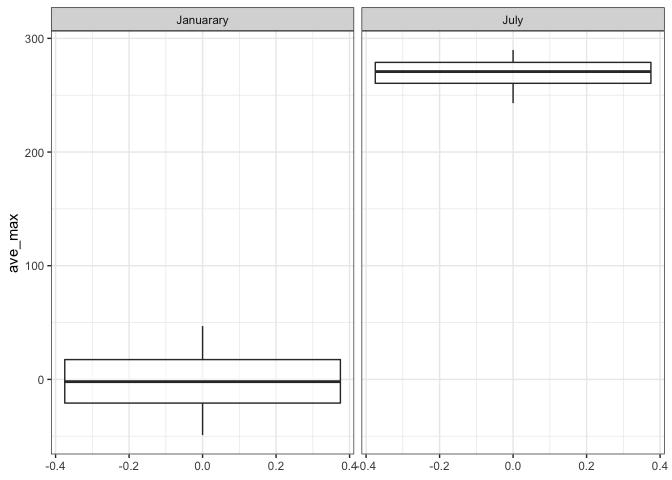
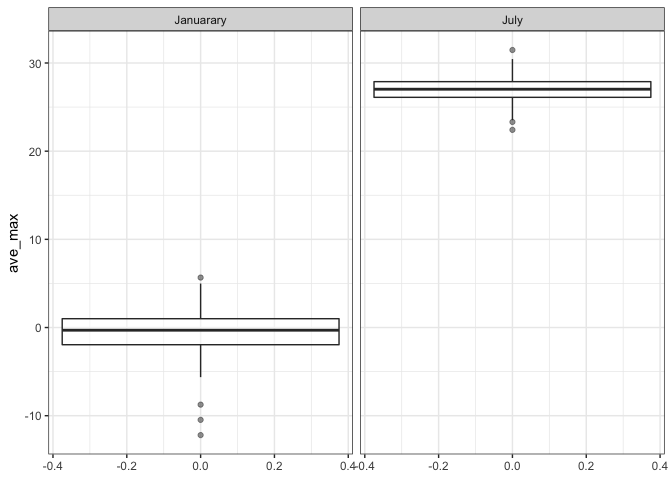
some comments and description

diff --git a/p8105_hw3_xz2809.md b/p8105_hw3_xz2809.md
@@ -111,8 +111,6 @@ mean_five_cat %>%
                      labels = c("02", "06", "10"))
 ```
 
-    ## Warning: Removed 21 rows containing missing values (geom_point).
-
 ![](p8105_hw3_xz2809_files/figure-markdown_github/unnamed-chunk-5-1.png)
 
 From the plot above, we observed that the proportino of each category are similar over 2002 - 2010. The "vary good" response is the most frequent category while "poor" response is the least frequent category.
@@ -126,9 +124,7 @@ This problem uses the Instacart data.
 data("instacart")
 ```
 
-Make a table showing the most popular item aisles “baking ingredients”, “dog food care”, and “packaged vegetables fruits”
-
-Make a table showing the mean hour of the day at which Pink Lady Apples and Coffee Ice Cream are ordered on each day of the week; format this table for human readers (i.e. produce a 2 x 7 table).
+The data set has 1,384,617 observations and 17 columns. "It is an anonymized dataset with over 3 million online grocery orders from more than 200,000 Instacart users." The key variables we are using in this data including the aisle id and aisle name, which indicates which aisle the items were ordered. We also know the product id and the product name of the item, which are identification of each product. The time and date when the order was placed are also key variables, indicating as "order\_dow" and "our\_hour\_day". For example, for the first observation, the product "Bulgarian Yogurt" was in the "yogurt" aisle and was placed at 10am on Thursday.
 
 ``` r
 num_aisle = instacart %>% 
@@ -163,7 +159,7 @@ popular_item = instacart %>%
   group_by(aisle,product_id,product_name) %>% 
   count() %>% 
   group_by(aisle) %>% 
-  filter(n == max(n))
+  filter(n == max(n)) 
 
 popular_item %>%  
   knitr::kable(digits = 1)
@@ -186,16 +182,20 @@ z = instacart %>%
   group_by(product_name,order_dow) %>% 
   mutate(mean_hour_day = mean (order_hour_of_day)) %>% 
   distinct(product_name,mean_hour_day,order_dow) %>% 
-  spread(key = order_dow, value = mean_hour_day) 
+  spread(key = order_dow, value = mean_hour_day) %>% 
+  rename(Sunday = "0", Monday = "1", Tuesday = "2", Wednesday = "3", Thurday = "4", Friday = "5", Saturday = "6")
+
 
 z %>% 
   knitr::kable(digits = 2)
 ```
 
-| product\_name    |      0|      1|      2|      3|      4|      5|      6|
-|:-----------------|------:|------:|------:|------:|------:|------:|------:|
-| Coffee Ice Cream |  13.77|  14.32|  15.38|  15.32|  15.22|  12.26|  13.83|
-| Pink Lady Apples |  13.44|  11.36|  11.70|  14.25|  11.55|  12.78|  11.94|
+| product\_name    |  Sunday|  Monday|  Tuesday|  Wednesday|  Thurday|  Friday|  Saturday|
+|:-----------------|-------:|-------:|--------:|----------:|--------:|-------:|---------:|
+| Coffee Ice Cream |   13.77|   14.32|    15.38|      15.32|    15.22|   12.26|     13.83|
+| Pink Lady Apples |   13.44|   11.36|    11.70|      14.25|    11.55|   12.78|     11.94|
+
+From the data above, we observe that poeple tend to do grocery shopping around noon or afternoon. People tend to buy Pink Lady Apples in noon during whole weeks and buy coffee ice cream around noon during Friday and weekends, but in the afternoon during weekdays.
 
 Problem3
 --------
@@ -210,8 +210,12 @@ ny_noaa_df= ny_noaa %>%
   janitor::clean_names() %>% 
   mutate(tmin = as.numeric(tmin),
          tmax = as.numeric(tmax),
-         id = as.factor(id))
+         id = as.factor(id),
+         tmin = tmin * 0.1,
+         tmax = tmax * 0.1) 
 ```
+
+The data set has 2,595,176 observations and 17 columns. Each observation decribe an description of weather condition of each station on each date across 8 years. The key variables including the depth of the snowfall (in mm), the maximum temperature and the minimum temperature (in tenth of the degrees C). There are multiple NA value in each conlumns. When we are conducting the analysis, the missting data is not an issue as there are over 2 millions observations in the data set. The sample size is large enough, when we omitted the missing data, the sample size is still large enough to imitate and analyze the underlying population.
 
 Here is the **code chunk** to calcualte for snow fall the most commonly observed values.
 
@@ -234,21 +238,20 @@ mean_ave_df = ny_noaa_df %>%
   mutate(year = as.numeric(year),
          month = as.factor(month)) %>% 
   filter(month=="07" | month == "01") %>% 
-  group_by(year,month) %>% 
+  group_by(id,month) %>% 
   filter(!is.na(tmax) & !is.na(tmin)) %>% 
   mutate(ave_max = mean(tmax)) %>% 
-  distinct(year, month, ave_max) 
+  distinct(id, month, ave_max) 
   
 plot_names <- c("01" = "Januarary", "07" = "July")
 
 mean_ave_df%>%
-  ggplot(aes(x = year, y = ave_max)) + 
+  ggplot(aes(x = id, y = ave_max)) + 
   geom_point(alpha = 0.5) +
   facet_grid(~month, labeller = as_labeller(plot_names))+
   viridis::scale_fill_viridis(discrete = TRUE)+
-  theme(legend.position = "none")+
-  scale_x_continuous(breaks = c(1981, 1990, 2000, 2010), 
-                     labels = c("1981", "1990","2000","2010"))
+  theme(legend.position = "none",
+        axis.text.x=element_blank())
 ```
 
 ![](p8105_hw3_xz2809_files/figure-markdown_github/unnamed-chunk-14-1.png)
@@ -264,7 +267,7 @@ mean_ave_df%>%
 
 ![](p8105_hw3_xz2809_files/figure-markdown_github/unnamed-chunk-14-2.png)
 
-There is no outlier of mean temperature in June and July. The median mean temperature of Januarary lies around 0 degrees while the median mean temperature of July lies around 25 degress.
+There are a few outliers of mean temperature of 8 years in some positions in Januarary and July. Four stations in Januarary are outliers while three stations are outliers in July. The median mean temperature of Januarary lies around 0 degrees while the median mean temperature of July lies around 27 degress.
 
 Here is **code chunk** to make a two-panel plot showing (i) tmax vs tmin for the full dataset (note that a scatterplot may not be the best option); and (ii) make a plot showing the distribution of snowfall values greater than 0 and less than 100 separately by year
 
@@ -289,3 +292,5 @@ a+b
 ```
 
 ![](p8105_hw3_xz2809_files/figure-markdown_github/unnamed-chunk-15-1.png)
+
+As we can see from the plots above, the least frequent is when minimum temperature and maximum temperature are close to each other. More over, the snow distribution shows that the most frequent snow fall is aroud 10 and 25, which make sense most of the time New York only sow slightly.
